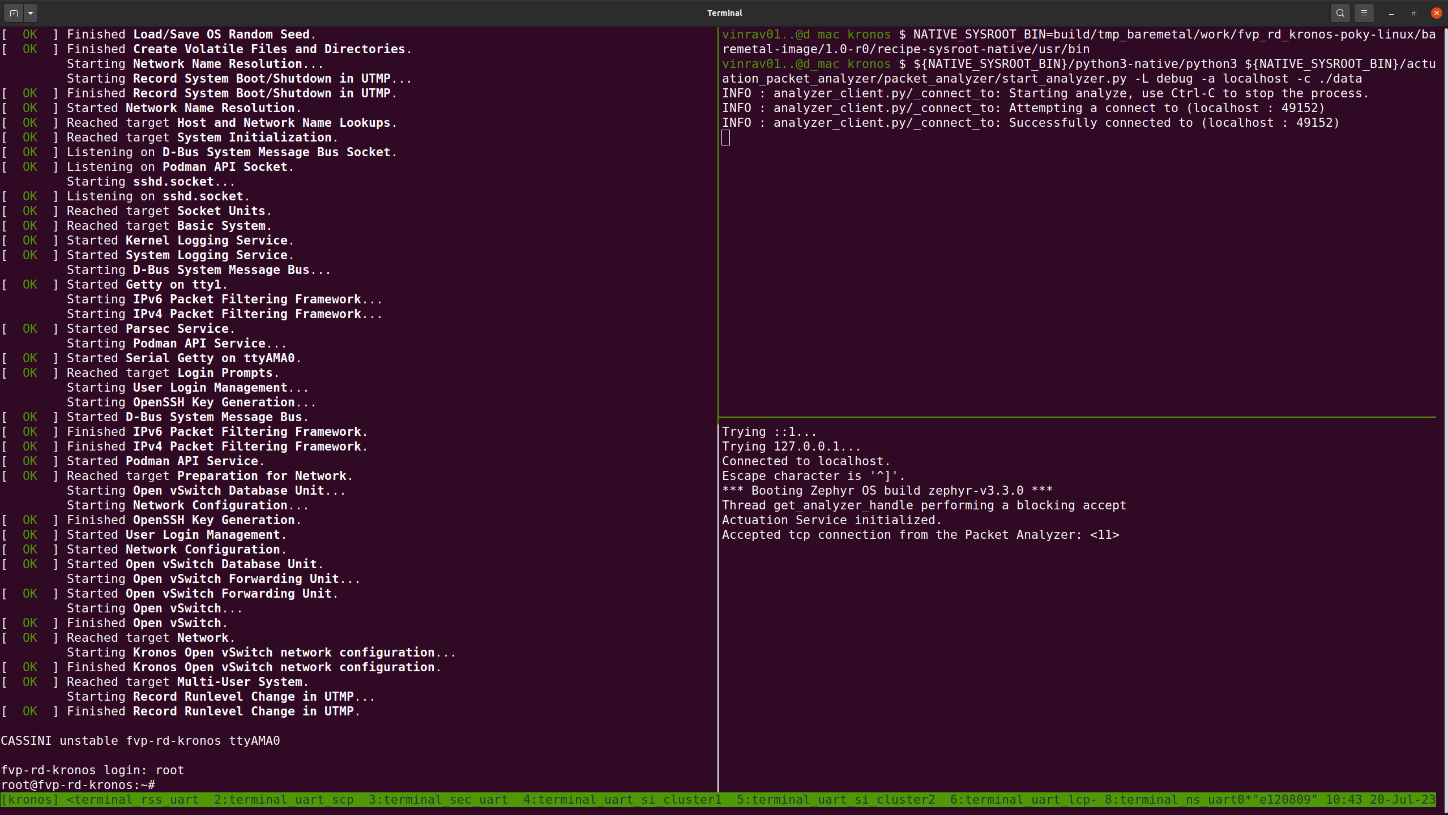
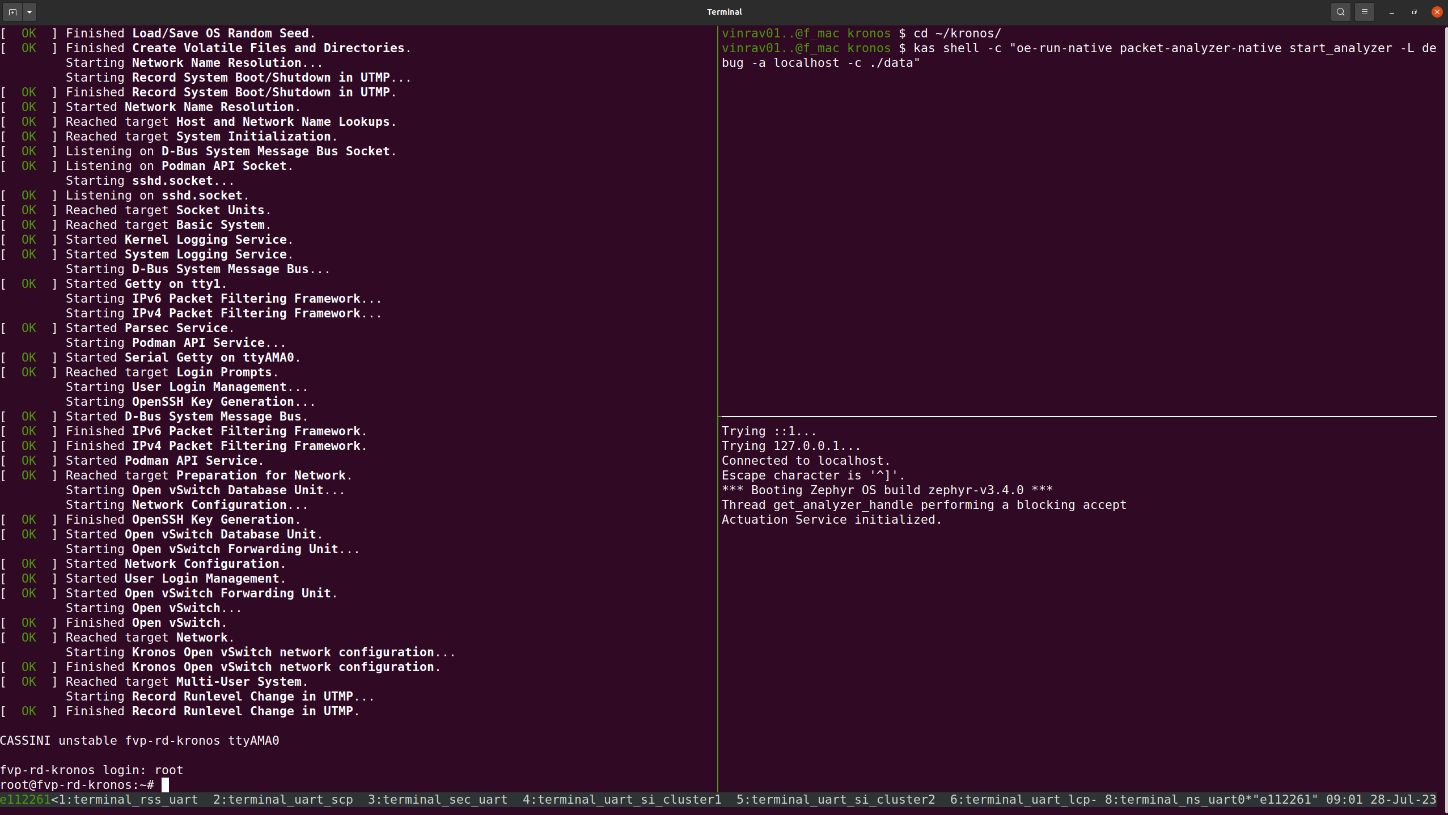
yocto/packet-analyzer-native: Migrate to setuptools and oe-run-native
To simplify the invocation of the Packet Analyzer, use setuptools
entrypoint scripts for the package so that the scripts are
automatically installed in /usr/bin in the recipe-sysroot-native.

For the dependency on packet-analyzer-native, use
do_addto_recipe_sysroot so that it is added to packet-analyzer-native's
own recipe-sysroot-native when an image is built. Limiting this
dependency to 'baremetal' and 'virtualization', else multiconfig build
for 'Virtualization' will create recipe sysroot for dom0 and domu1.

In the user guide, use the "oe-run-native" script in OE-core to invoke
the start_analyzer script of the packet-analyzer-native's
recipe-sysroot-native.

Modify the oeqa test case to call start_analyzer directly.

Changed region(s): [[0.0, 0.0, 1.0, 1.0], [0.4972, 0.5215, 0.7769, 0.6748]]

diff --git a/yocto/meta-kronos/lib/oeqa/runtime/cases/test_30_actuation.py b/yocto/meta-kronos/lib/oeqa/runtime/cases/test_30_actuation.py
@@ -54,18 +54,8 @@ class ActuationTest(OERuntimeTestCase):
                                timeout=150)
         self.target.expect(self.linux_console, self.linux_prompt, timeout=120)
 
-    def get_analyzer_path(self):
-        # Get packet analyzer package path
-        return os.path.join(self.td.get('COMPONENTS_DIR'),
-                            self.td.get('BUILD_ARCH'),
-                            'packet-analyzer-native', 'usr', 'bin',
-                            'actuation_packet_analyzer')
-
     def test_analyzer_help(self):
-        analyzer = 'packet_analyzer/start_analyzer.py'
-
-        host_output = pexpect.run(f'python3 {analyzer} -h',
-                                  cwd=self.get_analyzer_path(), timeout=10)
+        host_output = pexpect.run(f'start_analyzer -h', timeout=10)
         host_output = host_output.decode("utf-8", errors="replace").strip()
         self.logger.debug('host_output:')
         self.logger.debug(host_output)
@@ -81,10 +71,8 @@ class ActuationTest(OERuntimeTestCase):
         # localhost:FVP_ACTUATION_HOST_ANALYZER_PORT maps to 192.168.10.0:49152
         port = self.td.get('FVP_ACTUATION_HOST_ANALYZER_PORT')
         host = "localhost"
-        analyzer = 'packet_analyzer/start_analyzer.py'
-        cmd = f'python3 {analyzer} -L debug -p {port} -a {host} -c {command_f}'
-        proc = pexpect.spawn(cmd, cwd=self.get_analyzer_path(),
-                             logfile=self.host_log)
+        cmd = f'start_analyzer -L debug -p {port} -a {host} -c {command_f}'
+        proc = pexpect.spawn(cmd, logfile=self.host_log)
         proc.expect('Starting analyze, use Ctrl-C to stop the process',
                     timeout=10)
         self.target.expect(self.si_console,

diff --git a/documentation/user_guide/reproduce.rst b/documentation/user_guide/reproduce.rst
@@ -358,8 +358,7 @@ in :ref:`user_guide_reproduce_actuation_demo`, start the Packet Analyzer:
 
       cd ~/kronos/
       # Start the Packet Analyzer
-      NATIVE_SYSROOT_BIN=build/tmp_baremetal/work/fvp_rd_kronos-poky-linux/baremetal-image/1.0-r0/recipe-sysroot-native/usr/bin
-      ${NATIVE_SYSROOT_BIN}/python3-native/python3 ${NATIVE_SYSROOT_BIN}/actuation_packet_analyzer/packet_analyzer/start_analyzer.py -L debug -a localhost -c ./data
+      kas shell -c "oe-run-native packet-analyzer-native start_analyzer -L debug -a localhost -c ./data"
 
    A message similar to the following should appear on the SI Cluster 0:
 
